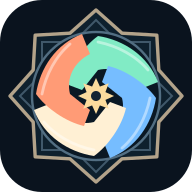
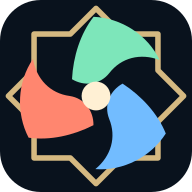
Add RagabVerse three-voice identity kit

diff --git a/studio.html b/studio.html
@@ -29,7 +29,7 @@
   <meta property="og:url" content="https://mohammedragab99.github.io/studio.html" />
 
   <!-- Favicon -->
-  <link rel="icon" href="favicon.svg?v=rosette" type="image/svg+xml" />
+  <link rel="icon" href="favicon.svg?v=three-voices" type="image/svg+xml" />
 
   <!-- Fonts -->
   <link rel="preconnect" href="https://fonts.googleapis.com" />
@@ -65,7 +65,7 @@
   <header class="site-header" id="siteHeader">
     <div class="container nav-wrap">
       <a class="brand" href="index.html" aria-label="RagabVerse home">
-        <img class="brand-mark" src="assets/brand/ragabverse-icon-192.png?v=rosette" width="40" height="40" alt="" />
+        <img class="brand-mark" src="assets/brand/ragabverse-icon-192.png?v=three-voices" width="40" height="40" alt="" />
         <span class="brand-content">
           <span class="brand-text">Mohammed Ragab</span>
           <span class="brand-subtitle">RAGABVERSE</span>
@@ -120,6 +120,7 @@
             <a href="#characters">Characters</a>
             <a href="#episodes">Episodes</a>
             <a href="#pillars">Content pillars</a>
+            <a href="#identity">Brand artwork</a>
           </nav>
         </div>
 
@@ -134,6 +135,20 @@
 
         <h2 class="studio-subheading" id="pillars">Content pillars</h2>
         <div class="rv-pillars" id="rvPillars" role="list" aria-label="Content pillars"></div>
+
+        <section class="studio-artwork" aria-labelledby="identity">
+          <h2 class="studio-subheading" id="identity">Brand artwork</h2>
+          <img src="assets/brand/ragabverse-banner.png"
+               alt="RagabVerse banner with a three-blade rotor, geometric rosette, and flowing lines"
+               width="2560" height="1440" loading="lazy" decoding="async" />
+          <nav class="page-jump" aria-label="RagabVerse brand artwork">
+            <a href="assets/brand/ragabverse-logo.svg">Logo</a>
+            <a href="assets/brand/ragabverse-icon-512.png">Icon</a>
+            <a href="assets/brand/ragabverse-animated.svg">Animated logo</a>
+            <a href="assets/brand/ragabverse-banner.png" download>Download banner</a>
+            <a href="assets/brand/ragabverse-four-voices.png">Four Voices poster</a>
+          </nav>
+        </section>
       </div>
     </section>
   </main>
@@ -142,7 +157,7 @@
   <footer class="site-footer">
     <div class="container footer-inner">
       <div class="footer-brand">
-        <img class="footer-mark" src="assets/brand/ragabverse-icon-192.png?v=rosette" width="38" height="38" alt="" />
+        <img class="footer-mark" src="assets/brand/ragabverse-icon-192.png?v=three-voices" width="38" height="38" alt="" />
         <div>
           <strong>Mohammed Ragab Al-Attar</strong>
           <span>Reliability • Rotating Equipment • Energy</span>

diff --git a/credentials.html b/credentials.html
@@ -29,7 +29,7 @@
   <meta property="og:url" content="https://mohammedragab99.github.io/credentials.html" />
 
   <!-- Favicon -->
-  <link rel="icon" href="favicon.svg?v=rosette" type="image/svg+xml" />
+  <link rel="icon" href="favicon.svg?v=three-voices" type="image/svg+xml" />
 
   <!-- Fonts -->
   <link rel="preconnect" href="https://fonts.googleapis.com" />
@@ -65,7 +65,7 @@
   <header class="site-header" id="siteHeader">
     <div class="container nav-wrap">
       <a class="brand" href="index.html" aria-label="RagabVerse home">
-        <img class="brand-mark" src="assets/brand/ragabverse-icon-192.png?v=rosette" width="40" height="40" alt="" />
+        <img class="brand-mark" src="assets/brand/ragabverse-icon-192.png?v=three-voices" width="40" height="40" alt="" />
         <span class="brand-content">
           <span class="brand-text">Mohammed Ragab</span>
           <span class="brand-subtitle">RAGABVERSE</span>
@@ -157,7 +157,7 @@
   <footer class="site-footer">
     <div class="container footer-inner">
       <div class="footer-brand">
-        <img class="footer-mark" src="assets/brand/ragabverse-icon-192.png?v=rosette" width="38" height="38" alt="" />
+        <img class="footer-mark" src="assets/brand/ragabverse-icon-192.png?v=three-voices" width="38" height="38" alt="" />
         <div>
           <strong>Mohammed Ragab Al-Attar</strong>
           <span>Reliability • Rotating Equipment • Energy</span>

diff --git a/experience.html b/experience.html
@@ -29,7 +29,7 @@
   <meta property="og:url" content="https://mohammedragab99.github.io/experience.html" />
 
   <!-- Favicon -->
-  <link rel="icon" href="favicon.svg?v=rosette" type="image/svg+xml" />
+  <link rel="icon" href="favicon.svg?v=three-voices" type="image/svg+xml" />
 
   <!-- Fonts -->
   <link rel="preconnect" href="https://fonts.googleapis.com" />
@@ -65,7 +65,7 @@
   <header class="site-header" id="siteHeader">
     <div class="container nav-wrap">
       <a class="brand" href="index.html" aria-label="RagabVerse home">
-        <img class="brand-mark" src="assets/brand/ragabverse-icon-192.png?v=rosette" width="40" height="40" alt="" />
+        <img class="brand-mark" src="assets/brand/ragabverse-icon-192.png?v=three-voices" width="40" height="40" alt="" />
         <span class="brand-content">
           <span class="brand-text">Mohammed Ragab</span>
           <span class="brand-subtitle">RAGABVERSE</span>
@@ -251,7 +251,7 @@
   <footer class="site-footer">
     <div class="container footer-inner">
       <div class="footer-brand">
-        <img class="footer-mark" src="assets/brand/ragabverse-icon-192.png?v=rosette" width="38" height="38" alt="" />
+        <img class="footer-mark" src="assets/brand/ragabverse-icon-192.png?v=three-voices" width="38" height="38" alt="" />
         <div>
           <strong>Mohammed Ragab Al-Attar</strong>
           <span>Reliability • Rotating Equipment • Energy</span>

diff --git a/research.html b/research.html
@@ -29,7 +29,7 @@
   <meta property="og:url" content="https://mohammedragab99.github.io/research.html" />
 
   <!-- Favicon -->
-  <link rel="icon" href="favicon.svg?v=rosette" type="image/svg+xml" />
+  <link rel="icon" href="favicon.svg?v=three-voices" type="image/svg+xml" />
 
   <!-- Fonts -->
   <link rel="preconnect" href="https://fonts.googleapis.com" />
@@ -65,7 +65,7 @@
   <header class="site-header" id="siteHeader">
     <div class="container nav-wrap">
       <a class="brand" href="index.html" aria-label="RagabVerse home">
-        <img class="brand-mark" src="assets/brand/ragabverse-icon-192.png?v=rosette" width="40" height="40" alt="" />
+        <img class="brand-mark" src="assets/brand/ragabverse-icon-192.png?v=three-voices" width="40" height="40" alt="" />
         <span class="brand-content">
           <span class="brand-text">Mohammed Ragab</span>
           <span class="brand-subtitle">RAGABVERSE</span>
@@ -125,7 +125,7 @@
   <footer class="site-footer">
     <div class="container footer-inner">
       <div class="footer-brand">
-        <img class="footer-mark" src="assets/brand/ragabverse-icon-192.png?v=rosette" width="38" height="38" alt="" />
+        <img class="footer-mark" src="assets/brand/ragabverse-icon-192.png?v=three-voices" width="38" height="38" alt="" />
         <div>
           <strong>Mohammed Ragab Al-Attar</strong>
           <span>Reliability • Rotating Equipment • Energy</span>

diff --git a/contact.html b/contact.html
@@ -29,7 +29,7 @@
   <meta property="og:url" content="https://mohammedragab99.github.io/contact.html" />
 
   <!-- Favicon -->
-  <link rel="icon" href="favicon.svg?v=rosette" type="image/svg+xml" />
+  <link rel="icon" href="favicon.svg?v=three-voices" type="image/svg+xml" />
 
   <!-- Fonts -->
   <link rel="preconnect" href="https://fonts.googleapis.com" />
@@ -65,7 +65,7 @@
   <header class="site-header" id="siteHeader">
     <div class="container nav-wrap">
       <a class="brand" href="index.html" aria-label="RagabVerse home">
-        <img class="brand-mark" src="assets/brand/ragabverse-icon-192.png?v=rosette" width="40" height="40" alt="" />
+        <img class="brand-mark" src="assets/brand/ragabverse-icon-192.png?v=three-voices" width="40" height="40" alt="" />
         <span class="brand-content">
           <span class="brand-text">Mohammed Ragab</span>
           <span class="brand-subtitle">RAGABVERSE</span>
@@ -149,7 +149,7 @@
   <footer class="site-footer">
     <div class="container footer-inner">
       <div class="footer-brand">
-        <img class="footer-mark" src="assets/brand/ragabverse-icon-192.png?v=rosette" width="38" height="38" alt="" />
+        <img class="footer-mark" src="assets/brand/ragabverse-icon-192.png?v=three-voices" width="38" height="38" alt="" />
         <div>
           <strong>Mohammed Ragab Al-Attar</strong>
           <span>Reliability • Rotating Equipment • Energy</span>

diff --git a/tools.html b/tools.html
@@ -29,7 +29,7 @@
   <meta property="og:url" content="https://mohammedragab99.github.io/tools.html" />
 
   <!-- Favicon -->
-  <link rel="icon" href="favicon.svg?v=rosette" type="image/svg+xml" />
+  <link rel="icon" href="favicon.svg?v=three-voices" type="image/svg+xml" />
 
   <!-- Fonts -->
   <link rel="preconnect" href="https://fonts.googleapis.com" />
@@ -68,7 +68,7 @@
   <header class="site-header" id="siteHeader">
     <div class="container nav-wrap">
       <a class="brand" href="index.html" aria-label="RagabVerse home">
-        <img class="brand-mark" src="assets/brand/ragabverse-icon-192.png?v=rosette" width="40" height="40" alt="" />
+        <img class="brand-mark" src="assets/brand/ragabverse-icon-192.png?v=three-voices" width="40" height="40" alt="" />
         <span class="brand-content">
           <span class="brand-text">Mohammed Ragab</span>
           <span class="brand-subtitle">RAGABVERSE</span>
@@ -230,7 +230,7 @@
   <footer class="site-footer">
     <div class="container footer-inner">
       <div class="footer-brand">
-        <img class="footer-mark" src="assets/brand/ragabverse-icon-192.png?v=rosette" width="38" height="38" alt="" />
+        <img class="footer-mark" src="assets/brand/ragabverse-icon-192.png?v=three-voices" width="38" height="38" alt="" />
         <div>
           <strong>Mohammed Ragab Al-Attar</strong>
           <span>Reliability • Rotating Equipment • Energy</span>

diff --git a/work.html b/work.html
@@ -29,7 +29,7 @@
   <meta property="og:url" content="https://mohammedragab99.github.io/work.html" />
 
   <!-- Favicon -->
-  <link rel="icon" href="favicon.svg?v=rosette" type="image/svg+xml" />
+  <link rel="icon" href="favicon.svg?v=three-voices" type="image/svg+xml" />
 
   <!-- Fonts -->
   <link rel="preconnect" href="https://fonts.googleapis.com" />
@@ -68,7 +68,7 @@
   <header class="site-header" id="siteHeader">
     <div class="container nav-wrap">
       <a class="brand" href="index.html" aria-label="RagabVerse home">
-        <img class="brand-mark" src="assets/brand/ragabverse-icon-192.png?v=rosette" width="40" height="40" alt="" />
+        <img class="brand-mark" src="assets/brand/ragabverse-icon-192.png?v=three-voices" width="40" height="40" alt="" />
         <span class="brand-content">
           <span class="brand-text">Mohammed Ragab</span>
           <span class="brand-subtitle">RAGABVERSE</span>
@@ -152,7 +152,7 @@
   <footer class="site-footer">
     <div class="container footer-inner">
       <div class="footer-brand">
-        <img class="footer-mark" src="assets/brand/ragabverse-icon-192.png?v=rosette" width="38" height="38" alt="" />
+        <img class="footer-mark" src="assets/brand/ragabverse-icon-192.png?v=three-voices" width="38" height="38" alt="" />
         <div>
           <strong>Mohammed Ragab Al-Attar</strong>
           <span>Reliability • Rotating Equipment • Energy</span>

diff --git a/index.html b/index.html
@@ -48,7 +48,7 @@
   <meta property="og:url" content="https://mohammedragab99.github.io/" />
 
   <!-- Favicon -->
-  <link rel="icon" href="favicon.svg?v=rosette" type="image/svg+xml" />
+  <link rel="icon" href="favicon.svg?v=three-voices" type="image/svg+xml" />
 
   <!-- Fonts -->
   <link rel="preconnect" href="https://fonts.googleapis.com" />
@@ -84,7 +84,7 @@
   <header class="site-header" id="siteHeader">
     <div class="container nav-wrap">
       <a class="brand" href="index.html" aria-label="RagabVerse home">
-        <img class="brand-mark" src="assets/brand/ragabverse-icon-192.png?v=rosette" width="40" height="40" alt="" />
+        <img class="brand-mark" src="assets/brand/ragabverse-icon-192.png?v=three-voices" width="40" height="40" alt="" />
         <span class="brand-content">
           <span class="brand-text">Mohammed Ragab</span>
           <span class="brand-subtitle">RAGABVERSE</span>
@@ -346,7 +346,7 @@
   <footer class="site-footer">
     <div class="container footer-inner">
       <div class="footer-brand">
-        <img class="footer-mark" src="assets/brand/ragabverse-icon-192.png?v=rosette" width="38" height="38" alt="" />
+        <img class="footer-mark" src="assets/brand/ragabverse-icon-192.png?v=three-voices" width="38" height="38" alt="" />
         <div>
           <strong>Mohammed Ragab Al-Attar</strong>
           <span>Reliability • Rotating Equipment • Energy</span>

diff --git a/404.html b/404.html
@@ -5,7 +5,7 @@
   <meta name="viewport" content="width=device-width, initial-scale=1.0" />
   <meta name="robots" content="noindex" />
   <title>Page not found | Mohammed Ragab Al-Attar</title>
-  <link rel="icon" href="/favicon.svg?v=rosette" type="image/svg+xml" />
+  <link rel="icon" href="/favicon.svg?v=three-voices" type="image/svg+xml" />
   <style>
     body { margin: 0; min-height: 100vh; display: grid; place-items: center; padding: 24px;
       font-family: Inter, system-ui, sans-serif; background: #080b12; color: #e5e7eb; text-align: center; }

diff --git a/sw.js b/sw.js
@@ -1,4 +1,4 @@
-const CACHE = 'ragabverse-shell-v8';
+const CACHE = 'ragabverse-shell-v9';
 const files = ['./', './index.html', './work.html', './experience.html', './tools.html', './research.html', './credentials.html', './studio.html', './contact.html', './cv.html', './project-detail.html', './style.css', './data.js', './script.js', './cv.js', './favicon.svg', './manifest.json', './assets/brand/ragabverse-icon-192.png'];
 const shell = new Set(files.map(file => new URL(file, self.registration.scope).href));
 

diff --git a/style.css b/style.css
@@ -3611,6 +3611,12 @@ a.hub-card:focus-visible {
 }
 
 #ragabverse .page-jump { justify-content: center; }
+.studio-artwork > img {
+  display: block;
+  width: 100%;
+  height: auto;
+  border-radius: var(--radius-lg);
+}
 .studio-subheading { margin: 2.25rem 0 1rem; }
 .rv-empty { grid-column: 1 / -1; color: var(--muted); }
 .contact-resources { margin-top: 28px; }

diff --git a/project-detail.html b/project-detail.html
@@ -5,7 +5,7 @@
   <meta name="viewport" content="width=device-width, initial-scale=1">
   <title>Engineering project | RagabVerse</title>
   <link rel="stylesheet" href="style.css">
-  <link rel="icon" href="favicon.svg?v=rosette">
+  <link rel="icon" href="favicon.svg?v=three-voices">
 </head>
 <body>
   <main class="project-detail">
